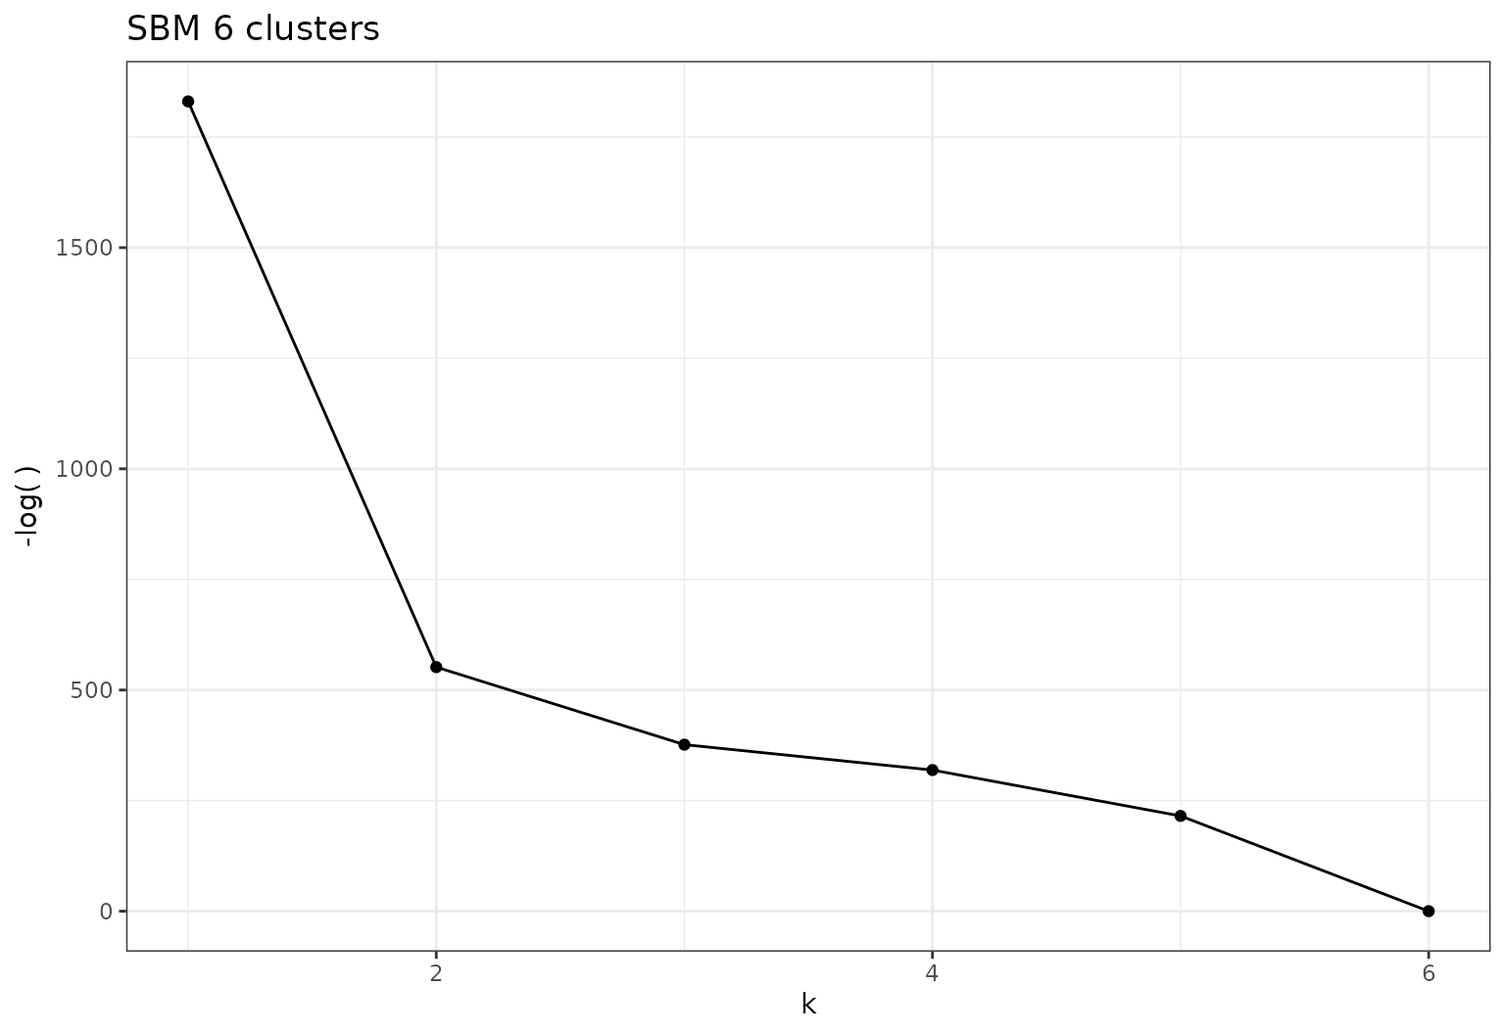
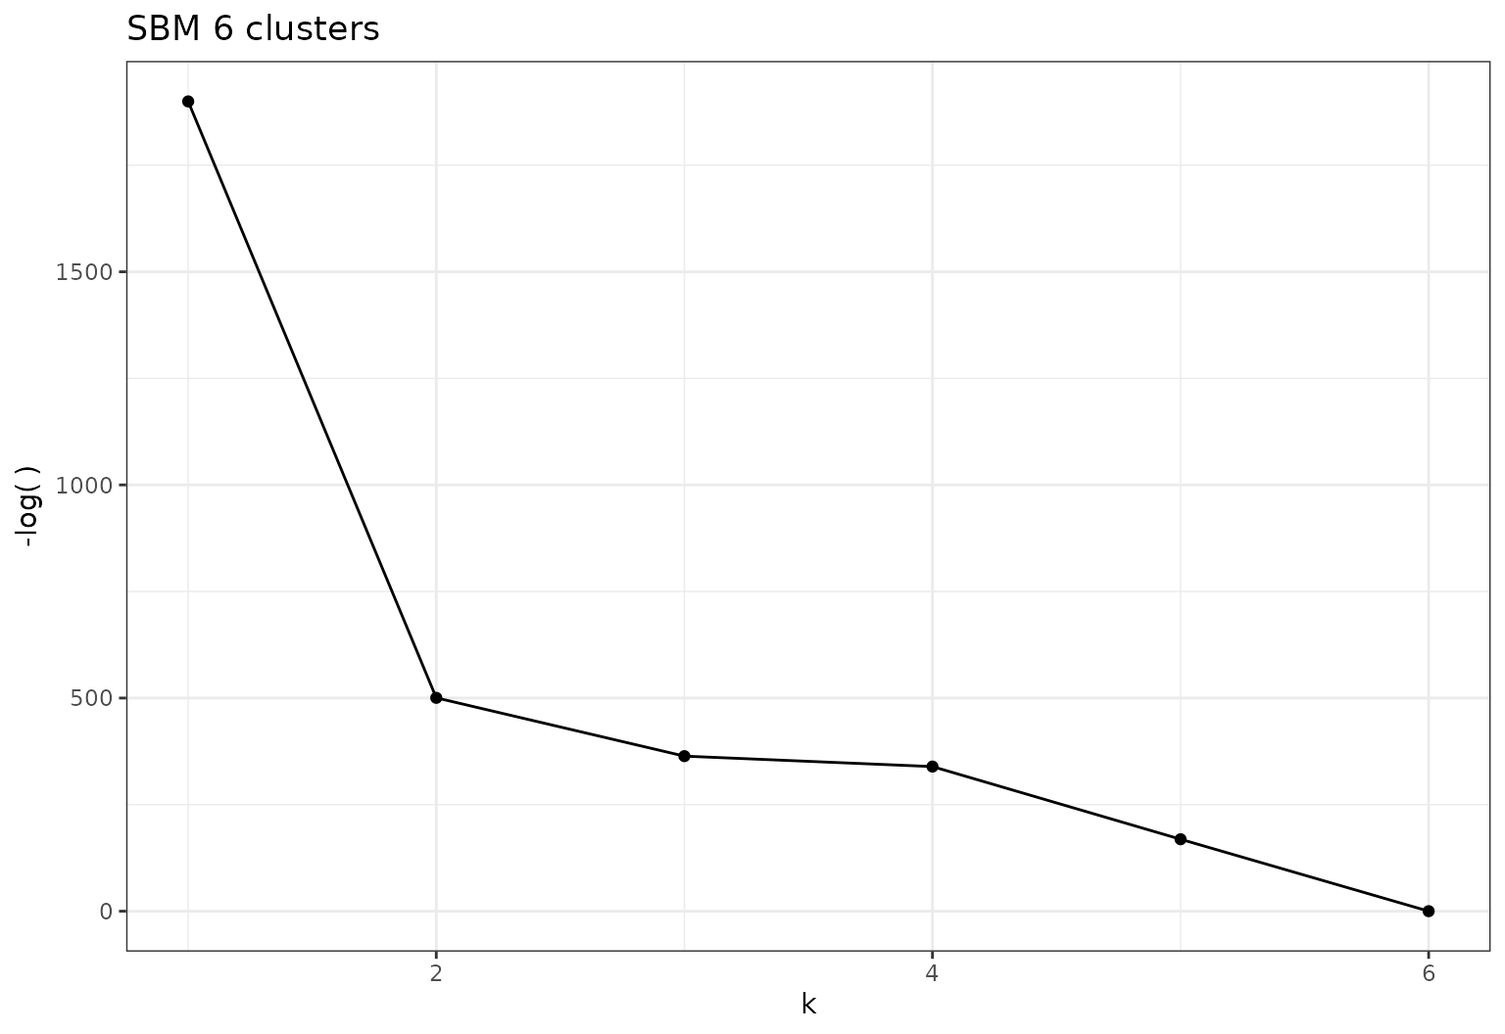
0.5.1 release and site update

diff --git a/docs/index.html b/docs/index.html
@@ -90,22 +90,29 @@
 
       </header><div class="row">
   <div class="contents col-md-9">
-<div id="greed--bayesian-greedy-clustering-" class="section level1">
+<div id="greed--bayesian-greedy-clustering" class="section level1">
 <div class="page-header"><h1 class="hasAnchor">
-<a href="#greed--bayesian-greedy-clustering-" class="anchor"></a>GREED : Bayesian greedy clustering <img src="reference/figures/greed.png" width="200" align="right">
-</h1></div>
+<a href="#greed--bayesian-greedy-clustering" class="anchor"></a>GREED : Bayesian greedy clustering</h1></div>
 <!-- badges: start -->
 
 <p>Greed enables model based clustering of networks, matrices of count data and much more with different types of generative models. Model selection and clustering is performed in combination by optimizing the Integrated Classification Likelihood. Details of the algorithms and methods proposed by this package can be found in Côme, Jouvin, Latouche, and Bouveyron (2021) <a href="https://doi.org/10.1007/s11634-021-00440-z">10.1007/s11634-021-00440-z</a>.</p>
+<p><img src="reference/figures/greed.png" width="200" align="right"></p>
 <p>The following generative models are available currently :</p>
 <ul>
-<li>Stochastic Block Models (for <strong>directed</strong> and <strong>un-directed</strong> graphs, see <code><a href="reference/sbm-class.html">?`sbm-class`</a></code>; to deal with missing values see <code><a href="reference/misssbm-class.html">?`misssbm-class`</a></code>),</li>
-<li>Degree Corrected Stochastic Block Models (for <strong>directed</strong> and <strong>un-directed</strong> graphs, see <code><a href="reference/dcsbm-class.html">?`dcsbm-class`</a></code>),</li>
-<li>Stochastic Block Models with Multinomial observations (<strong>experimental</strong>, see <code><a href="reference/multsbm-class.html">?`multsbm-class`</a></code>),</li>
-<li>Degree Corrected Latent Block Models (see <code><a href="reference/co_dcsbm-class.html">?`co_dcsbm-class`</a></code>),</li>
-<li>Mixture of Multinomials (see <code><a href="reference/mm-class.html">?`mm-class`</a></code>),</li>
-<li>Gaussian Mixture Model (<strong>experimental</strong>, see <code><a href="reference/gmm-class.html">?`gmm-class`</a></code> and <code><a href="reference/diaggmm-class.html">?`diaggmm-class`</a></code>),</li>
-<li>Multivariate Mixture of Gaussian Regression Model (<strong>experimental</strong>, see <code><a href="reference/mvmreg-class.html">?`mvmreg-class`</a></code>).</li>
+<li>
+<strong>Stochastic Block Models</strong> (see <code><a href="reference/sbm-class.html">?`sbm-class`</a></code> and <code><a href="reference/misssbm-class.html">?`misssbm-class`</a></code>),</li>
+<li>
+<strong>Degree Corrected Stochastic Block Models</strong> (see <code><a href="reference/dcsbm-class.html">?`dcsbm-class`</a></code>),</li>
+<li>
+<strong>Multinomial Stochastic Block Models</strong> (see <code><a href="reference/multsbm-class.html">?`multsbm-class`</a></code>),</li>
+<li>
+<strong>Degree Corrected Latent Block Models</strong> (see <code><a href="reference/co_dcsbm-class.html">?`co_dcsbm-class`</a></code>),</li>
+<li>
+<strong>Mixture of Multinomials</strong> (see <code><a href="reference/mm-class.html">?`mm-class`</a></code>),</li>
+<li>
+<strong>Gaussian Mixture Model</strong> (see <code><a href="reference/gmm-class.html">?`gmm-class`</a></code> and <code><a href="reference/diaggmm-class.html">?`diaggmm-class`</a></code>),</li>
+<li>
+<strong>Multivariate Mixture of Gaussian Regression Model</strong> (see <code><a href="reference/mvmreg-class.html">?`mvmreg-class`</a></code>).</li>
 </ul>
 <p>With the Integrated Classification Likelihood, the parameters of the models are integrated out. This allows a natural regularization for complex models. Since the Integrated Classification Likelihood penalizes complex models it allows to automatically find a “natural” value for the number of clusters <span class="math inline"><em>K</em><sup>*</sup></span>, the user only needs to provide an initial guess as well as values for the prior parameters (sensible default values are used if no prior information is available). The optimization is performed by default thanks to a combination of a greedy local search and a genetic algorithm. Several optimization algorithms are available.</p>
 <p>Eventually, the whole path of solutions from <span class="math inline"><em>K</em><sup>*</sup></span> to 1 cluster is extracted. This enables a partial ordering of the clusters, and the evaluation of simpler clustering. The package also provides some plotting functionality.</p>
@@ -131,13 +138,17 @@
 <span class="fu"><a href="https://rdrr.io/r/utils/data.html">data</a></span><span class="op">(</span><span class="va">Jazz</span><span class="op">)</span>
 <span class="va">sol</span><span class="op">=</span><span class="fu"><a href="reference/greed.html">greed</a></span><span class="op">(</span><span class="va">Jazz</span><span class="op">)</span>
 <span class="co">#&gt; ------- undirected DCSBM model fitting ------</span>
-<span class="co">#&gt; ################# Generation  1: best solution with an ICL of -28611 and 16 clusters #################</span>
-<span class="co">#&gt; ################# Generation  2: best solution with an ICL of -28601 and 15 clusters #################</span>
-<span class="co">#&gt; ################# Generation  3: best solution with an ICL of -28580 and 16 clusters #################</span>
-<span class="co">#&gt; ################# Generation  4: best solution with an ICL of -28578 and 15 clusters #################</span>
-<span class="co">#&gt; ################# Generation  5: best solution with an ICL of -28578 and 15 clusters #################</span>
+<span class="co">#&gt; ################# Generation  1: best solution with an ICL of -28628 and 18 clusters #################</span>
+<span class="co">#&gt; ################# Generation  2: best solution with an ICL of -28617 and 17 clusters #################</span>
+<span class="co">#&gt; ################# Generation  3: best solution with an ICL of -28601 and 15 clusters #################</span>
+<span class="co">#&gt; ################# Generation  4: best solution with an ICL of -28584 and 16 clusters #################</span>
+<span class="co">#&gt; ################# Generation  5: best solution with an ICL of -28582 and 13 clusters #################</span>
+<span class="co">#&gt; ################# Generation  6: best solution with an ICL of -28579 and 17 clusters #################</span>
+<span class="co">#&gt; ################# Generation  7: best solution with an ICL of -28577 and 17 clusters #################</span>
+<span class="co">#&gt; ################# Generation  8: best solution with an ICL of -28577 and 17 clusters #################</span>
+<span class="co">#&gt; ################# Generation  9: best solution with an ICL of -28577 and 17 clusters #################</span>
 <span class="co">#&gt; ------- Final clustering -------</span>
-<span class="co">#&gt; ICL clustering with a DCSBM model, 14 clusters and an icl of -28559.</span></code></pre></div>
+<span class="co">#&gt; ICL clustering with a DCSBM model, 16 clusters and an icl of -28561.</span></code></pre></div>
 <p>Here Jazz is a square sparse matrix and a <code><a href="reference/dcsbm-class.html">?`dcsbm-class`</a></code> model will be used by default. Some plotting function enable the exploration of the clustering results:</p>
 <div class="sourceCode" id="cb4"><pre class="downlit sourceCode r">
 <code class="sourceCode R"><span class="fu"><a href="https://rdrr.io/r/graphics/plot.default.html">plot</a></span><span class="op">(</span><span class="va">sol</span><span class="op">)</span></code></pre></div>
@@ -157,16 +168,17 @@
 <span class="fu"><a href="https://rdrr.io/r/utils/data.html">data</a></span><span class="op">(</span><span class="st">"Blogs"</span><span class="op">)</span>
 <span class="va">sol</span><span class="op">=</span><span class="fu"><a href="reference/greed.html">greed</a></span><span class="op">(</span><span class="va">Blogs</span><span class="op">$</span><span class="va">X</span><span class="op">)</span>
 <span class="co">#&gt; ------- directed DCSBM model fitting ------</span>
-<span class="co">#&gt; ################# Generation  1: best solution with an ICL of -84417 and 16 clusters #################</span>
-<span class="co">#&gt; ################# Generation  2: best solution with an ICL of -84358 and 17 clusters #################</span>
-<span class="co">#&gt; ################# Generation  3: best solution with an ICL of -84199 and 18 clusters #################</span>
-<span class="co">#&gt; ################# Generation  4: best solution with an ICL of -84179 and 19 clusters #################</span>
-<span class="co">#&gt; ################# Generation  5: best solution with an ICL of -84160 and 18 clusters #################</span>
-<span class="co">#&gt; ################# Generation  6: best solution with an ICL of -84150 and 17 clusters #################</span>
-<span class="co">#&gt; ################# Generation  7: best solution with an ICL of -84143 and 17 clusters #################</span>
-<span class="co">#&gt; ################# Generation  8: best solution with an ICL of -84143 and 17 clusters #################</span>
+<span class="co">#&gt; ################# Generation  1: best solution with an ICL of -84494 and 19 clusters #################</span>
+<span class="co">#&gt; ################# Generation  2: best solution with an ICL of -84348 and 18 clusters #################</span>
+<span class="co">#&gt; ################# Generation  3: best solution with an ICL of -84227 and 18 clusters #################</span>
+<span class="co">#&gt; ################# Generation  4: best solution with an ICL of -84220 and 18 clusters #################</span>
+<span class="co">#&gt; ################# Generation  5: best solution with an ICL of -84165 and 16 clusters #################</span>
+<span class="co">#&gt; ################# Generation  6: best solution with an ICL of -84141 and 18 clusters #################</span>
+<span class="co">#&gt; ################# Generation  7: best solution with an ICL of -84130 and 18 clusters #################</span>
+<span class="co">#&gt; ################# Generation  8: best solution with an ICL of -84125 and 17 clusters #################</span>
+<span class="co">#&gt; ################# Generation  9: best solution with an ICL of -84125 and 17 clusters #################</span>
 <span class="co">#&gt; ------- Final clustering -------</span>
-<span class="co">#&gt; ICL clustering with a DCSBM model, 16 clusters and an icl of -84101.</span>
+<span class="co">#&gt; ICL clustering with a DCSBM model, 16 clusters and an icl of -84099.</span>
 <span class="fu"><a href="https://rdrr.io/r/graphics/plot.default.html">plot</a></span><span class="op">(</span><span class="va">sol</span><span class="op">)</span></code></pre></div>
 <p><img src="reference/figures/future-1.png" width="60%"></p>
 </div>
@@ -203,6 +215,7 @@
 <h2>Dev status</h2>
 <ul class="list-unstyled">
 <li><a href="https://github.com/comeetie/greed/actions"><img src="https://github.com/comeetie/greed/workflows/R-CMD-check/badge.svg" alt="R build status"></a></li>
+<li><a href="https://CRAN.R-project.org/package=greed"><img src="https://www.r-pkg.org/badges/version/greed" alt="CRAN status"></a></li>
 </ul>
 </div>
 </div>

diff --git a/docs/articles/graph-clustering-with-sbm.html b/docs/articles/graph-clustering-with-sbm.html
@@ -95,7 +95,7 @@
       <h1 data-toc-skip>Graph clustering with SBM</h1>
                         <h4 class="author">Etienne Côme</h4>
             
-            <h4 class="date">2021-05-03</h4>
+            <h4 class="date">2021-05-11</h4>
       
       <small class="dont-index">Source: <a href="https://github.com/comeetie/greed/blob/master/vignettes/graph-clustering-with-sbm.Rmd"><code>vignettes/graph-clustering-with-sbm.Rmd</code></a></small>
       <div class="hidden name"><code>graph-clustering-with-sbm.Rmd</code></div>
@@ -124,10 +124,11 @@
 <div class="sourceCode" id="cb3"><pre class="downlit sourceCode r">
 <code class="sourceCode R"><span class="va">sol</span> <span class="op">=</span> <span class="fu"><a href="../reference/greed.html">greed</a></span><span class="op">(</span><span class="va">sbm</span><span class="op">$</span><span class="va">x</span>,model<span class="op">=</span><span class="fu">new</span><span class="op">(</span><span class="st">"sbm"</span><span class="op">)</span><span class="op">)</span>
 <span class="co">#&gt; ------- directed SBM model fitting ------</span>
-<span class="co">#&gt; ################# Generation  1: best solution with an ICL of -14312 and 6 clusters #################</span>
-<span class="co">#&gt; ################# Generation  2: best solution with an ICL of -14312 and 6 clusters #################</span>
+<span class="co">#&gt; ################# Generation  1: best solution with an ICL of -14263 and 8 clusters #################</span>
+<span class="co">#&gt; ################# Generation  2: best solution with an ICL of -14172 and 6 clusters #################</span>
+<span class="co">#&gt; ################# Generation  3: best solution with an ICL of -14172 and 6 clusters #################</span>
 <span class="co">#&gt; ------- Final clustering -------</span>
-<span class="co">#&gt; ICL clustering with a SBM model, 6 clusters and an icl of -14312.</span></code></pre></div>
+<span class="co">#&gt; ICL clustering with a SBM model, 6 clusters and an icl of -14172.</span></code></pre></div>
 <p>Plot the results using a block representation.</p>
 <div class="sourceCode" id="cb4"><pre class="downlit sourceCode r">
 <code class="sourceCode R"><span class="fu"><a href="https://rdrr.io/r/graphics/plot.default.html">plot</a></span><span class="op">(</span><span class="va">sol</span>,type<span class="op">=</span><span class="st">'blocks'</span><span class="op">)</span></code></pre></div>

diff --git a/docs/reference/coef-misssbm_fit-method.html b/docs/reference/coef-misssbm_fit-method.html
@@ -157,8 +157,8 @@
 
     <p>a list with the model parameters estimates (MAP), the fields are:</p><ul>
 <li><p><code>'pi'</code>: cluster proportions</p></li>
-<li><p><code>'thetakl'</code>: between clusters connection probabilites (array of size K x K),</p></li>
-<li><p><code>'epsilonkl'</code>: between clusters dyad observation probabilites (array of size K x K) for block-dyad sampling and double for dyad sampling,</p></li>
+<li><p><code>'thetakl'</code>: between clusters connection probabilities (array of size K x K),</p></li>
+<li><p><code>'epsilonkl'</code>: between clusters dyad observation probabilities (array of size K x K) for block-dyad sampling and double for dyad sampling,</p></li>
 </ul>
 
 

diff --git a/docs/reference/sbm-class.html b/docs/reference/sbm-class.html
@@ -168,7 +168,7 @@ This class mainly store the prior parameters value \(\alpha,a_0,b_0\) of this ge
 
 <dt><code>b0</code></dt><dd><p>Beta prior parameter over no-links (default to 1)</p></dd>
 
-<dt><code>type</code></dt><dd><p>define the type of networks (either "directed" or "undirected", default to "directed"), for undirected graphs the adjacency matrix is supposed to be symetric.</p></dd>
+<dt><code>type</code></dt><dd><p>define the type of networks (either "directed" or "undirected", default to "directed"), for undirected graphs the adjacency matrix is supposed to be symmetric.</p></dd>
 
 </dl>
     <h2 class="hasAnchor" id="references"><a class="anchor" href="#references"></a>References</h2>

diff --git a/docs/reference/diaggmm_path-class.html b/docs/reference/diaggmm_path-class.html
@@ -156,7 +156,7 @@
 
 <dt><code>K</code></dt><dd><p>number of extracted clusters over row and columns</p></dd>
 
-<dt><code>cl</code></dt><dd><p>a numeric vector with row and clolumns cluster indexes</p></dd>
+<dt><code>cl</code></dt><dd><p>a numeric vector with row and columns cluster indexes</p></dd>
 
 <dt><code>obs_stats</code></dt><dd><p>a list with the following elements:
 <ul>

diff --git a/docs/news/index.html b/docs/news/index.html
@@ -137,7 +137,7 @@
 
     <div id="greed-051" class="section level1">
 <h1 class="page-header" data-toc-text="0.5.1">
-<a href="#greed-051" class="anchor"></a>greed 0.5.1<small> Unreleased </small>
+<a href="#greed-051" class="anchor"></a>greed 0.5.1<small> 2021-05-10 </small>
 </h1>
 <ul>
 <li>New Gaussian mixture model diaggmm for diagonal mixture models</li>

diff --git a/src/Mm.cpp b/src/Mm.cpp
@@ -161,7 +161,7 @@ void Mm::swap_update(int i,int newcl){
     // remove from counts
     counts.shed_row(oldcl);
     // remove from x_counts
-    x_counts.shed_col(oldcl);
+    x_counts = x_counts.cols(arma::find(arma::linspace(0,K-1,K)!=oldcl));
     // remove from col_sums
     col_sums.shed_col(oldcl);
     // oldies : .rows(arma::find(arma::linspace(0,K-1,K)!=oldcl));
@@ -213,7 +213,7 @@ void Mm::merge_update(int k,int l){
   counts.shed_row(k);
   // update x_counts
   x_counts.col(l) = x_counts.col(k)+x_counts.col(l);
-  x_counts.shed_col(k);
+  x_counts = x_counts.cols(arma::find(arma::linspace(0,K-1,K)!=k));
   // update col_sums
   col_sums(l) = col_sums(l) + col_sums(k);
   col_sums.shed_col(k);

diff --git a/src/SpMergeMat.cpp b/src/SpMergeMat.cpp
@@ -10,4 +10,4 @@ SpMergeMat::SpMergeMat(int bk, int bl, double bv, arma::sp_mat mat){
     l=bl;
     merge_mat=mat;
     v=bv;
-};
+}

diff --git a/src/MergeMat.cpp b/src/MergeMat.cpp
@@ -10,4 +10,4 @@ MergeMat::MergeMat(int bk, int bl, double bv, arma::mat mat){
     l=bl;
     merge_mat=mat;
     v=bv;
-};
+}

diff --git a/README.md b/README.md
@@ -1,12 +1,14 @@
 
 <!-- README.md is generated from README.Rmd. Please edit that file -->
 
-# GREED : Bayesian greedy clustering <img src="man/figures/greed.png" width=200 align="right" />
+# GREED : Bayesian greedy clustering
 
 <!-- badges: start -->
 
 [![R build
 status](https://github.com/comeetie/greed/workflows/R-CMD-check/badge.svg)](https://github.com/comeetie/greed/actions)
+[![CRAN
+status](https://www.r-pkg.org/badges/version/greed)](https://CRAN.R-project.org/package=greed)
 <!-- badges: end -->
 
 Greed enables model based clustering of networks, matrices of count data
@@ -17,21 +19,23 @@ proposed by this package can be found in Côme, Jouvin, Latouche, and
 Bouveyron (2021)
 [10.1007/s11634-021-00440-z](https://doi.org/10.1007/s11634-021-00440-z).
 
+<img src="man/figures/greed.png" width=200 align="right" />
+
 The following generative models are available currently :
 
-  - Stochastic Block Models (for **directed** and **un-directed**
-    graphs, see `` ?`sbm-class` ``; to deal with missing values see
+  - **Stochastic Block Models** (see `` ?`sbm-class` `` and
     `` ?`misssbm-class` ``),
-  - Degree Corrected Stochastic Block Models (for **directed** and
-    **un-directed** graphs, see `` ?`dcsbm-class` ``),
-  - Stochastic Block Models with Multinomial observations
-    (**experimental**, see `` ?`multsbm-class` ``),
-  - Degree Corrected Latent Block Models (see `` ?`co_dcsbm-class` ``),
-  - Mixture of Multinomials (see `` ?`mm-class` ``),
-  - Gaussian Mixture Model (**experimental**, see `` ?`gmm-class` `` and
+  - **Degree Corrected Stochastic Block Models** (see
+    `` ?`dcsbm-class` ``),
+  - **Multinomial Stochastic Block Models** (see
+    `` ?`multsbm-class` ``),
+  - **Degree Corrected Latent Block Models** (see
+    `` ?`co_dcsbm-class` ``),
+  - **Mixture of Multinomials** (see `` ?`mm-class` ``),
+  - **Gaussian Mixture Model** (see `` ?`gmm-class` `` and
     `` ?`diaggmm-class` ``),
-  - Multivariate Mixture of Gaussian Regression Model (**experimental**,
-    see `` ?`mvmreg-class` ``).
+  - **Multivariate Mixture of Gaussian Regression Model** (see
+    `` ?`mvmreg-class` ``).
 
 With the Integrated Classification Likelihood, the parameters of the
 models are integrated out. This allows a natural regularization for
@@ -79,13 +83,17 @@ library(greed)
 data(Jazz)
 sol=greed(Jazz)
 #> ------- undirected DCSBM model fitting ------
-#> ################# Generation  1: best solution with an ICL of -28611 and 16 clusters #################
-#> ################# Generation  2: best solution with an ICL of -28601 and 15 clusters #################
-#> ################# Generation  3: best solution with an ICL of -28580 and 16 clusters #################
-#> ################# Generation  4: best solution with an ICL of -28578 and 15 clusters #################
-#> ################# Generation  5: best solution with an ICL of -28578 and 15 clusters #################
+#> ################# Generation  1: best solution with an ICL of -28628 and 18 clusters #################
+#> ################# Generation  2: best solution with an ICL of -28617 and 17 clusters #################
+#> ################# Generation  3: best solution with an ICL of -28601 and 15 clusters #################
+#> ################# Generation  4: best solution with an ICL of -28584 and 16 clusters #################
+#> ################# Generation  5: best solution with an ICL of -28582 and 13 clusters #################
+#> ################# Generation  6: best solution with an ICL of -28579 and 17 clusters #################
+#> ################# Generation  7: best solution with an ICL of -28577 and 17 clusters #################
+#> ################# Generation  8: best solution with an ICL of -28577 and 17 clusters #################
+#> ################# Generation  9: best solution with an ICL of -28577 and 17 clusters #################
 #> ------- Final clustering -------
-#> ICL clustering with a DCSBM model, 14 clusters and an icl of -28559.
+#> ICL clustering with a DCSBM model, 16 clusters and an icl of -28561.
 ```
 
 Here Jazz is a square sparse matrix and a `` ?`dcsbm-class` `` model
@@ -126,16 +134,17 @@ plan(multisession)
 data("Blogs")
 sol=greed(Blogs$X)
 #> ------- directed DCSBM model fitting ------
-#> ################# Generation  1: best solution with an ICL of -84417 and 16 clusters #################
-#> ################# Generation  2: best solution with an ICL of -84358 and 17 clusters #################
-#> ################# Generation  3: best solution with an ICL of -84199 and 18 clusters #################
-#> ################# Generation  4: best solution with an ICL of -84179 and 19 clusters #################
-#> ################# Generation  5: best solution with an ICL of -84160 and 18 clusters #################
-#> ################# Generation  6: best solution with an ICL of -84150 and 17 clusters #################
-#> ################# Generation  7: best solution with an ICL of -84143 and 17 clusters #################
-#> ################# Generation  8: best solution with an ICL of -84143 and 17 clusters #################
+#> ################# Generation  1: best solution with an ICL of -84494 and 19 clusters #################
+#> ################# Generation  2: best solution with an ICL of -84348 and 18 clusters #################
+#> ################# Generation  3: best solution with an ICL of -84227 and 18 clusters #################
+#> ################# Generation  4: best solution with an ICL of -84220 and 18 clusters #################
+#> ################# Generation  5: best solution with an ICL of -84165 and 16 clusters #################
+#> ################# Generation  6: best solution with an ICL of -84141 and 18 clusters #################
+#> ################# Generation  7: best solution with an ICL of -84130 and 18 clusters #################
+#> ################# Generation  8: best solution with an ICL of -84125 and 17 clusters #################
+#> ################# Generation  9: best solution with an ICL of -84125 and 17 clusters #################
 #> ------- Final clustering -------
-#> ICL clustering with a DCSBM model, 16 clusters and an icl of -84101.
+#> ICL clustering with a DCSBM model, 16 clusters and an icl of -84099.
 plot(sol)
 ```
 

diff --git a/cran-comments.md b/cran-comments.md
@@ -1,6 +1,6 @@
 Dear cran members,
 
-I corrected the problem found with valgrind. The provided example did no raise a warning anymore. I also added a vignette and worked on input checking and priors specification. I have performed the same tests as previously with similar results (same notes; 1 on UTF8 on Solaris, and 1 on package size on Windows and Ubuntu).  
+I corrected the problems found with valgrind. All the provided tests did not raise issues anymore with valgrind. I have performed the same tests as previously with similar results (same notes; 1 on UTF8 on Solaris, and 1 on package size on Windows and Ubuntu).  
 
 ## Test environments
 
